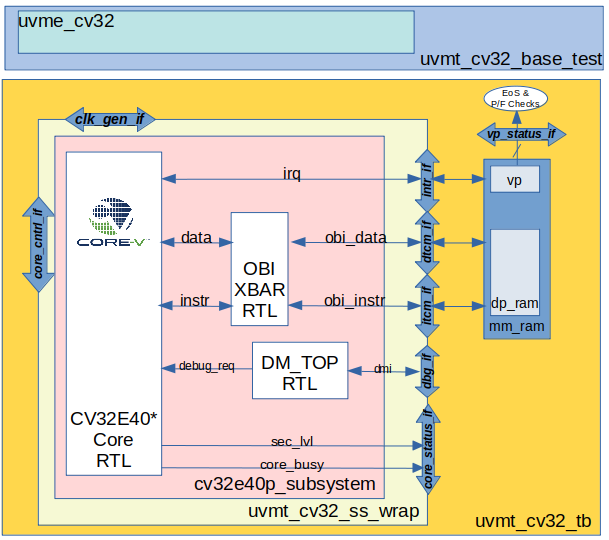
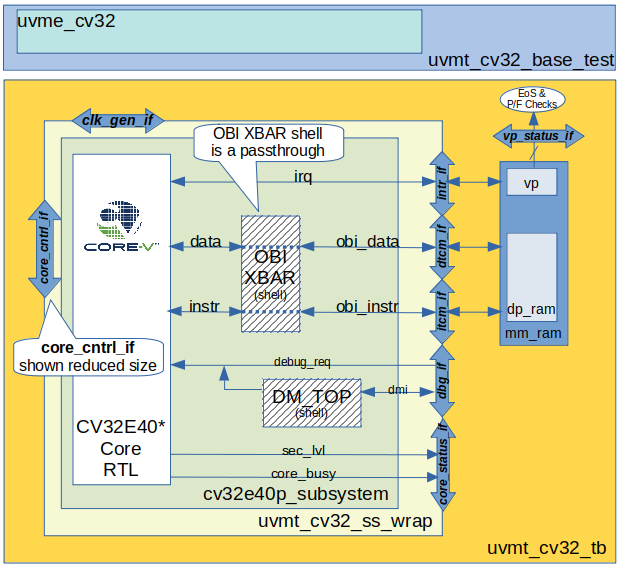
Clarifications for Phase 3

diff --git a/verif/Common/CORE-V_Verification_Strategy/source/cv32_env.rst b/verif/Common/CORE-V_Verification_Strategy/source/cv32_env.rst
@@ -13,9 +13,10 @@ maintain the ability to run testcases and regressions.
 
 The UVM environment will be based on the verification environment
 developed for the Ibex core, using the Google random-instruction
-generator for stimulus creation, the Imperas ISS for results prediction
-and will also be able to run hand-coded code-segments (programs) such as
-those developed by the RISC-V Compliance Task Group.
+generator for stimulus creation, the Imperas Instruction Set Simulator
+(ISS) for results prediction and will also be able to run hand-coded
+code-segments (programs) such as those developed by the RISC-V Compliance Task
+Group.
 
 The end-goal is to have a single UVM-based verification environment
 capable of complete CV32E40P and CV32E40 verification. This environment
@@ -69,10 +70,10 @@ Recall from the structure of the core testbench. Swapping out the RI5CY
 RTL model for the CV32E40P RTL model, and adding SystemVerilog
 interfaces yields the testbench components for the phase 1 environment.
 Rounding out the environment is a minimal UVM environment and UVM base
-test. This is shown in Illustration 4.
+test. This is shown in `Illustration 4`_.
 
 .. figure:: ../images/CV32E_VE_phase1.png
-   :name: cv32_env_phase1
+   :name: Illustration 4
    :align: center
    :alt: 
 
@@ -97,7 +98,7 @@ Makefiles used to control compilation and execution of testcases.
 Phase 2 Environment
 ~~~~~~~~~~~~~~~~~~~
 
-The phase two environment is shown in Illustration 5. Phase 2 introduces the `Google
+The phase two environment is shown in `Illustration 5`_. Phase 2 introduces the `Google
 Random Instruction Generator <https://github.com/google/riscv-dv>`__ and
 the `Imperas
 ISS <http://www.imperas.com/articles/imperas-empowers-riscv-community-with-riscvovpsim>`__
@@ -116,13 +117,13 @@ phase 2 environment are:
    modifications.
 
 .. figure:: ../images/CV32E_VE_phase2.png
-   :name: CV32_VE_Phase2
+   :name: Illustration 5
    :align: center
    :alt: 
 
    Illustration 5: Phase 2 Verification Environment for CV32E
 
-As shown in the Illustration, the environment is not a single entity.
+As shown in `Illustration 5`_, the environment is not a single entity.
 Rather, it is a collection of disjoint components, held together by
 script-ware to make it appear as a single environment. When the user
 invokes a command to run a testcase, for example, make
@@ -189,11 +190,12 @@ significant ToDo.
 Phase 3 Environment
 ~~~~~~~~~~~~~~~~~~~
 
-Phase 3 adds significant capability to the environment, notably the integration
-of the ISS as an environment component and the ability to exercise either the
-CV32E40* core or the CV32E40* Subsystem as the device-under test.
+Phase 3 adds significant capabilies to the environment, notably the integration
+of the ISS as an environment component and the
+ability to exercise either the CV32E40* core or the CV32E40* subsystem as the
+device-under test.
 
-Illustration 5 shows the ISS as an entity external to the environment.  Wrapping
+`Illustration 5`_ shows the ISS as an entity external to the environment.  Wrapping
 the ISS in a DPI layer allows the ISS to be integrated into the UVM environment
 and thus controllable via the UVM run-flow.  The benefit of this is that testcases
 will have direct control over the operation of the ISS and comparision between the
@@ -206,51 +208,58 @@ in a future revision of this document.
 At the time of this writing (2020-04-21) there is a proposal to develop a
 CV32E40P Subsystem, comprized of the Core, a Debug Module and Debug Transport
 Module, plus a cross-bar which will allow for Debug Module and an external AHB
-master to access to Core memory.  Details of this Subsystem can be found in the
-Architecture Specification for the
+master to access instruction and data memory.  Details of this Subsystem can be
+found in the Architecture Specification for the
 `Open  Bus Interface <https://github.com/openhwgroup/core-v-docs/blob/master/cores/cv32e40p/OBI-v1.0.pdf>`__.
 
-Illustration 6 shows a simple (?) change to the **uvmt_cv32_tb** that allows
+`Illustration 6`_ shows a simple (?) change to the **uvmt_cv32_tb** that allows
 the testbench (and thereby the UVM enviroment) to switch between a Core-level
 DUT and a Subsystem-level DUT.
 
 Here, the memory model **mm_ram** has been moved from the dut_wrap module to
 the testbench module.  The connection between the memory model and the dut_wrap
-is via new SystemVerilog interfaces, **itcm** and **dtcm**.  These interfaces support
-both the Core-level instruction and data interfaces as well as the OBI instruction
-and data interfaces.  This is possible because the OBI standard is a super-set of
-the Core's interfaces.  Any difference in operation between these interfaces is
-controlled at compile time [11]_.
-
+is via new SystemVerilog interfaces, **itcm** and **dtcm**.  These SystemVerilog
+interfaces support both the Core-level instruction and data interfaces as well
+as the OBI instruction and data interfaces.  This is possible because the OBI
+standard is a super-set of the Core's interfaces.  Any difference in operation
+between these interfaces is controlled at compile time [11]_.
 
 .. figure:: ../images/MemoryModelTestbench.png
-   :name: Memory Model in the Testbench
+   :name: Illustration 6
    :align: center
    :alt: 
 
    Illustration 6: Moving Memory Model to the Testbench
 
-In Illustration 7 the **uvmt_cv32_core_wrap** (or core wrapper) is replaced with
+In `Illustration 7`_ the **uvmt_cv32_dut_wrap** (or core wrapper) is replaced with
 **uvmt_cv32_ss_wrap** (subsystem wrapper).  This subsystem wrapper has the same
 SystemVerilog interfaces as the core wrapper and instantiates the CV32E40*
 Subsystem directly.  For Core-level testing, the the OBI XBAR and DM_TOP modules
-are replaced with "dummy" modules at compile-time.  The dummy XBAR simply connects
-the Core's instruction and data buses to the itcm_if and dtcm_if and the DM is
-replaced with an empty shell.  The UVM environment's Debug Agent can drive either
-the DMI bus or debug_req input to the Core, as determined by the compile-time
-setup of the wrapper.
+are replaced with "shell" modules at compile-time.  The XBAR shell is a pass-through
+for the instruction and data buses to directly connect to
+itcm_if and dtcm_if respectively.  Likewise, the DM is also replaced with a shell
+that drives Hi-Z on its debug_req output, thereby allowing debug_req to be driven
+directly from the dbg_if.  The DM shell drives the ready output on the DMI low to
+ensure that the Debug Agent (in the UVM environment, not shown in the Illustration)
+does not inadvertently attempt debug access via the DMI.  Instead, the Debug Agent
+is configured to drive debug_req directly.
 
-Similarly, the AHB master and slave interfaces (not shown in the Illustration)
-connect to SystemVerilog interfaces which connect to AHB Agents in the UVM
-environment.  If the wrapper has been compiled to instantiate just the Core,
-these AHB Agents are configured to be inactive.
+Testing the Subsystem involves no compile-time changes to the UVM environment
+as it is able to use the same SystemVerilog interfaces.  The run-time configuration
+is changed such that the Debug Agent drives Hi-Z on its debug_req ouput and all
+accesses to the DM use the DMI signalling.   At compile-time the RTL for the
+OBI XBAR and DM modules are instantiated.  The AHB master and slave interfaces
+of the Subsystem (not shown in the Illustration) connect to their own SystemVerilog
+interfaces which connect to AHB Agents in the UVM environment.  If the wrapper has
+been compiled to instantiate just the Core, these AHB Agents are configured to
+be inactive.
 
 .. figure:: ../images/SubsystemWrapper.png
-   :name: Subsystem Wrapper
+   :name: Illustration 7
    :align: center
    :alt: 
 
-   Illustration 7: Subsystem Wrapper
+   Illustration 7: Subsystem Wrapper (compiled for Core-level verification)
 
 Phase 3 Development Strategy
 ~~~~~~~~~~~~~~~~~~~~~~~~~~~~
